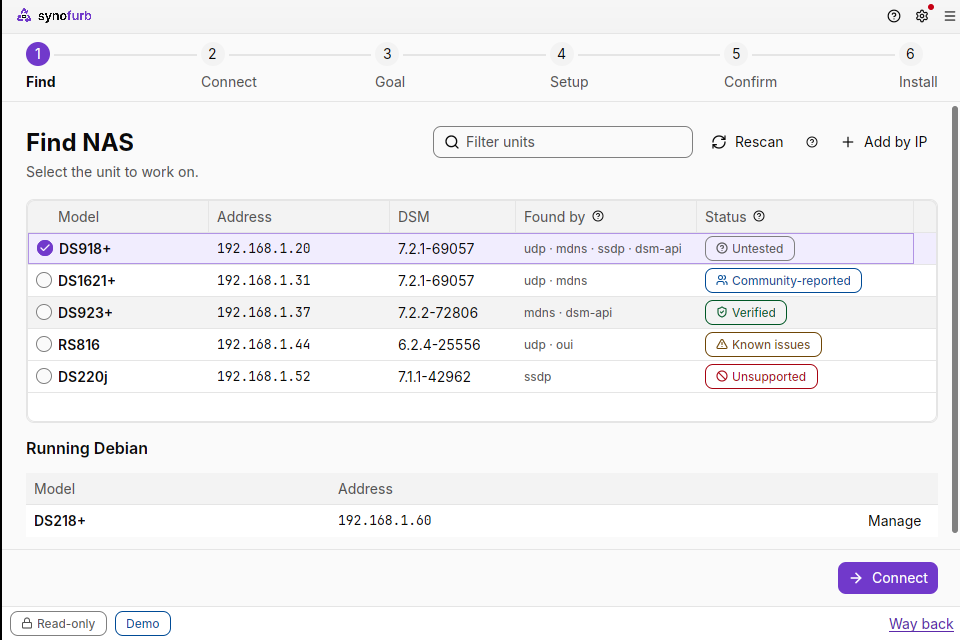
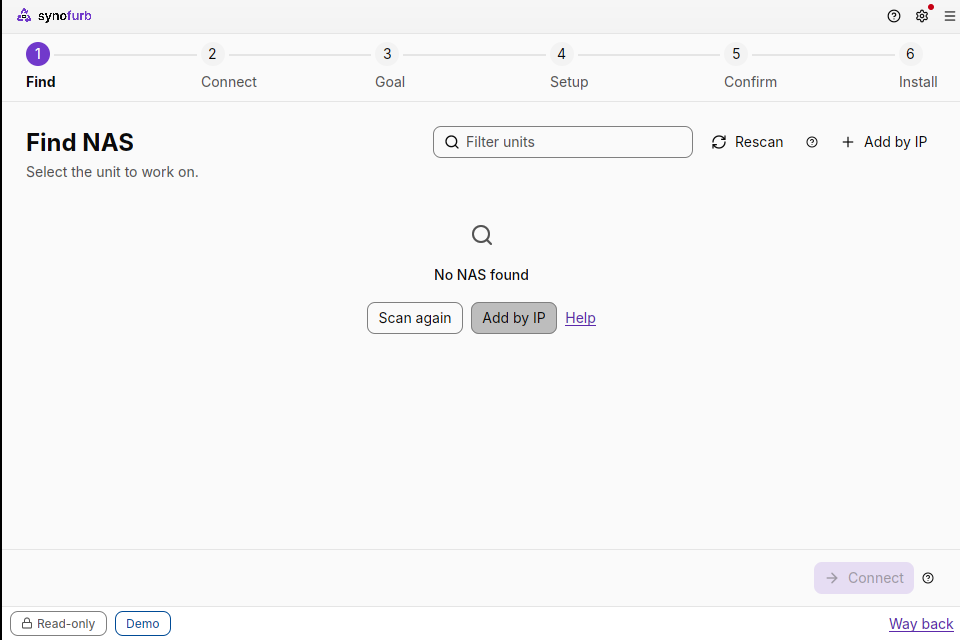
GUI fix round 4: screenshots that show what their names say (Find empty, the seven next-step variants, hover and pressed, focus lines, recovery dialogs, the ten missing demo screens, more dark and Largest), docs
Claude-Session: https://claude.ai/code/session_01KG7vnip8q8iZtfbUyzbgBH

diff --git a/crates/synofurb/src/ui/state.rs b/crates/synofurb/src/ui/state.rs
@@ -29,7 +29,7 @@ pub enum Screen {
 
 /// Names accepted by `synofurb gui --demo --screen <name>`. The Help centre is a sheet over the current screen, so
 /// `help` and `help-topic` are demo targets with an overlay, not screens.
-pub const DEMO_SCREEN_NAMES: [&str; 54] = [
+pub const DEMO_SCREEN_NAMES: [&str; 55] = [
     "failed-agent",
     "manage-rebuild",
     "manage-faildisk",
@@ -78,6 +78,7 @@ pub const DEMO_SCREEN_NAMES: [&str; 54] = [
     "dlg-quick",
     "dlg-hostkey",
     "dlg-hostchanged",
+    "dlg-hostkey-ended",
     "dlg-manual",
     "dlg-next",
     "dlg-next-pre",
@@ -103,6 +104,8 @@ pub enum Overlay {
     HostKey,
     /// "Host key changed" (Connect).
     HostKeyChanged,
+    /// "Trust this NAS?" after the connection already ended (Trust disabled).
+    HostKeyEnded,
     /// "Quick setup" dialog (Goal).
     Quick,
     /// "Manual recovery" dialog (Recovery).
@@ -220,6 +223,7 @@ impl DemoTarget {
             "help-topic" => DemoTarget { overlay: Overlay::Help(Some("recovery")), ..DemoTarget::at(Screen::Confirm) },
             "dlg-recovery" => DemoTarget { overlay: Overlay::RecoveryDialog, ..DemoTarget::at(Screen::Confirm) },
             "dlg-hostkey" => DemoTarget { overlay: Overlay::HostKey, ..DemoTarget::at(Screen::Connect) },
+            "dlg-hostkey-ended" => DemoTarget { overlay: Overlay::HostKeyEnded, ..DemoTarget::at(Screen::Connect) },
             "dlg-hostchanged" => DemoTarget { overlay: Overlay::HostKeyChanged, ..DemoTarget::at(Screen::Connect) },
             "dlg-quick" => DemoTarget { overlay: Overlay::Quick, ..DemoTarget::at(Screen::Goal) },
             "dlg-manual" => DemoTarget { overlay: Overlay::Manual, fixture: Fixture::Agent, ..DemoTarget::at(Screen::Recover) },

diff --git a/crates/synofurb/src/ui/app.rs b/crates/synofurb/src/ui/app.rs
@@ -740,6 +740,16 @@ impl App {
                 });
                 self.open_hostkey_dialog(ask, window, cx)
             }
+            Overlay::HostKeyEnded => {
+                let fp = "SHA256:q3Zb1c8mPvX0dT7nKfL2yHrW9sUeJ5aG4oB6iNxVwYc".to_string();
+                let ask = super::trust::TrustAsk::demo(synofurb_core::hostkey::HostKeyPrompt {
+                    host: "192.168.1.20".into(),
+                    port: 22,
+                    fingerprint: fp,
+                });
+                ask.watch().end();
+                self.open_hostkey_dialog(ask, window, cx)
+            }
             Overlay::HostKeyChanged => self.open_hostkey_changed(
                 "192.168.1.20".into(),
                 22,

diff --git a/docs/GUI.md b/docs/GUI.md
@@ -4,7 +4,7 @@ The desktop UI follows the owner-approved v2 mockup (`design/mockups-v2/desktop`
 `design/BRIEF-v2.md`). It uses stock `gpui-component` widgets through GPUI Kit 0.8.1, bundled Inter and JetBrains Mono,
 Lucide icons only, themed scrollbars, and at most 60 words of static prose per screen (enforced by tests in `copy.rs`).
 The widget map and the defects of the first UI are in `docs/GUI-COMPONENTS.md`; deviations from the mockup are in
-`design/v2/DESIGN-SYSTEM-V2.md` section 13 (DEV-UI-1 to DEV-UI-21).
+`design/v2/DESIGN-SYSTEM-V2.md` section 13 (DEV-UI-1 to DEV-UI-22).
 
 `synofurb` (no arguments) and `synofurb gui` open the wizard. All decisions (scan, inspect, plan, install, recovery,
 update, compatibility) stay in `synofurb-core`; the UI shows state and forwards clicks.
@@ -140,15 +140,25 @@ Verified (Linux, headless): per-file rustfmt, `cargo clippy --workspace --all-ta
 the tie between the copy and `synofurb_core::timing`, tokens vs JSON, accent contrast, risk Tag, Way back, recovery rows, Quick setup
 defaults and its "Use these" state, phrase gates, command-vs-plan, Manage binding to one unit, per-unit saved images, host-key bridge,
 Find column widths, management health and update gate, RAID helpers). Every demo screen renders under Xvfb with software Vulkan;
-`crates/synofurb/assets/tools/gui-walk.sh` renders them all at a text size and fails when content reaches the page gutter or a
-horizontal scrollbar appears (run at Largest on all 51 screens: clean; the Help sheet is excluded from the gutter test because it
-is a panel over the page). Enter/Space behaviour of Erase and the Command button were checked with injected XTest keys.
+`crates/synofurb/assets/tools/gui-walk.sh` renders every demo screen (pages, dialogs, the Help sheet) at a text size and fails when content
+reaches the page gutter or a horizontal scrollbar appears; it also scrolls each page by one and two viewports and walks the log
+viewer, the Copy command and Cancel install dialogs and the disabled-reason Popover. The `gui-walk` CI job runs it at Largest on
+ubuntu-24.04 (Xvfb, lavapipe); that job has not run yet. The Help sheet is excluded from the gutter test because it is a panel over
+the page; content hidden by `overflow: hidden` without a scrollbar cannot be seen by it. Enter/Space behaviour of Erase and the Command button were checked with injected XTest keys.
 
-Screenshots: `design/screenshots/v2-app-*.png` (about 105): light 960 x 640 for every family, dark for 20, Largest text for 18 (dark
-once), 1180 x 760 for 7, plus the log viewer, the Copy command, Cancel install, Report, Add by IP, host-key and changed-key dialogs,
-Quick setup with mixed disks, Manual recovery (light and dark), Confirm with Erase enabled, in Keep mode and for a twin unit, Find
-empty and scanning, Manage sign-in, a keyboard focus ring, hover and pressed states of the primary button, and the Popover opened by a
-disabled-reason info button. Not captured: hover and pressed for every control class, dark for every family, Largest for dialogs.
+Screenshots: `design/screenshots/v2-app-*.png`. Each file shows what its name says; the states that need an input were produced with
+injected XTest events (mouse motion, button down, Tab, key combinations), and two files with different names are never byte-identical
+(checked by hash). Light 960 x 640 for every demo screen (`failed-pre` is an alias of `failed` and `manage-health-ok` of `manage`: one file each), 73
+files; dark 45, Largest text 27 (pages and the dialogs Manual recovery, host-key, changed key, next-step, first launch, update,
+Keep, Quick setup and Copy command), 1180 x 760 for 8 pages. Dialogs and states: Copy command, Cancel install, Report, Add by IP,
+Keep, the seven "What happens next" variants (reboot or halt, before or after the point of no return, Wipe or Keep, agent), host-key
+(waiting, ended and changed), Quick setup, Manual recovery, Restore flash (typed phrase), Remove entries (typed phrase), Open agent on
+Debian, Boot DSM (and its outcome), Confirm with Erase enabled, Keep and twin, Find empty and scanning, Manage sign-in and every
+Manage state, the log viewer. Interaction states: a keyboard focus line on a checkbox and a primary button (light and dark), hover and
+pressed of the primary button (light and dark), the disabled-reason Popover.
+Not captured: hover and pressed for other control classes, the focus line on text inputs and on segmented choices (the segmented
+group showed no focus under Tab in the headless run: unverified), a recorded Tab order, Restore flash and Open agent outcomes (the typed
+phrase cannot be typed through XTest keysyms), dark for every dialog, Largest in dark except Confirm.
 
 **Window controls and the black strip in captures.** With no window manager (Xvfb) GPUI falls back to server-side decorations on X11
 and `TitleBar` then draws no minimise, maximise or close buttons (the window manager is expected to); a window manager supplies them.
